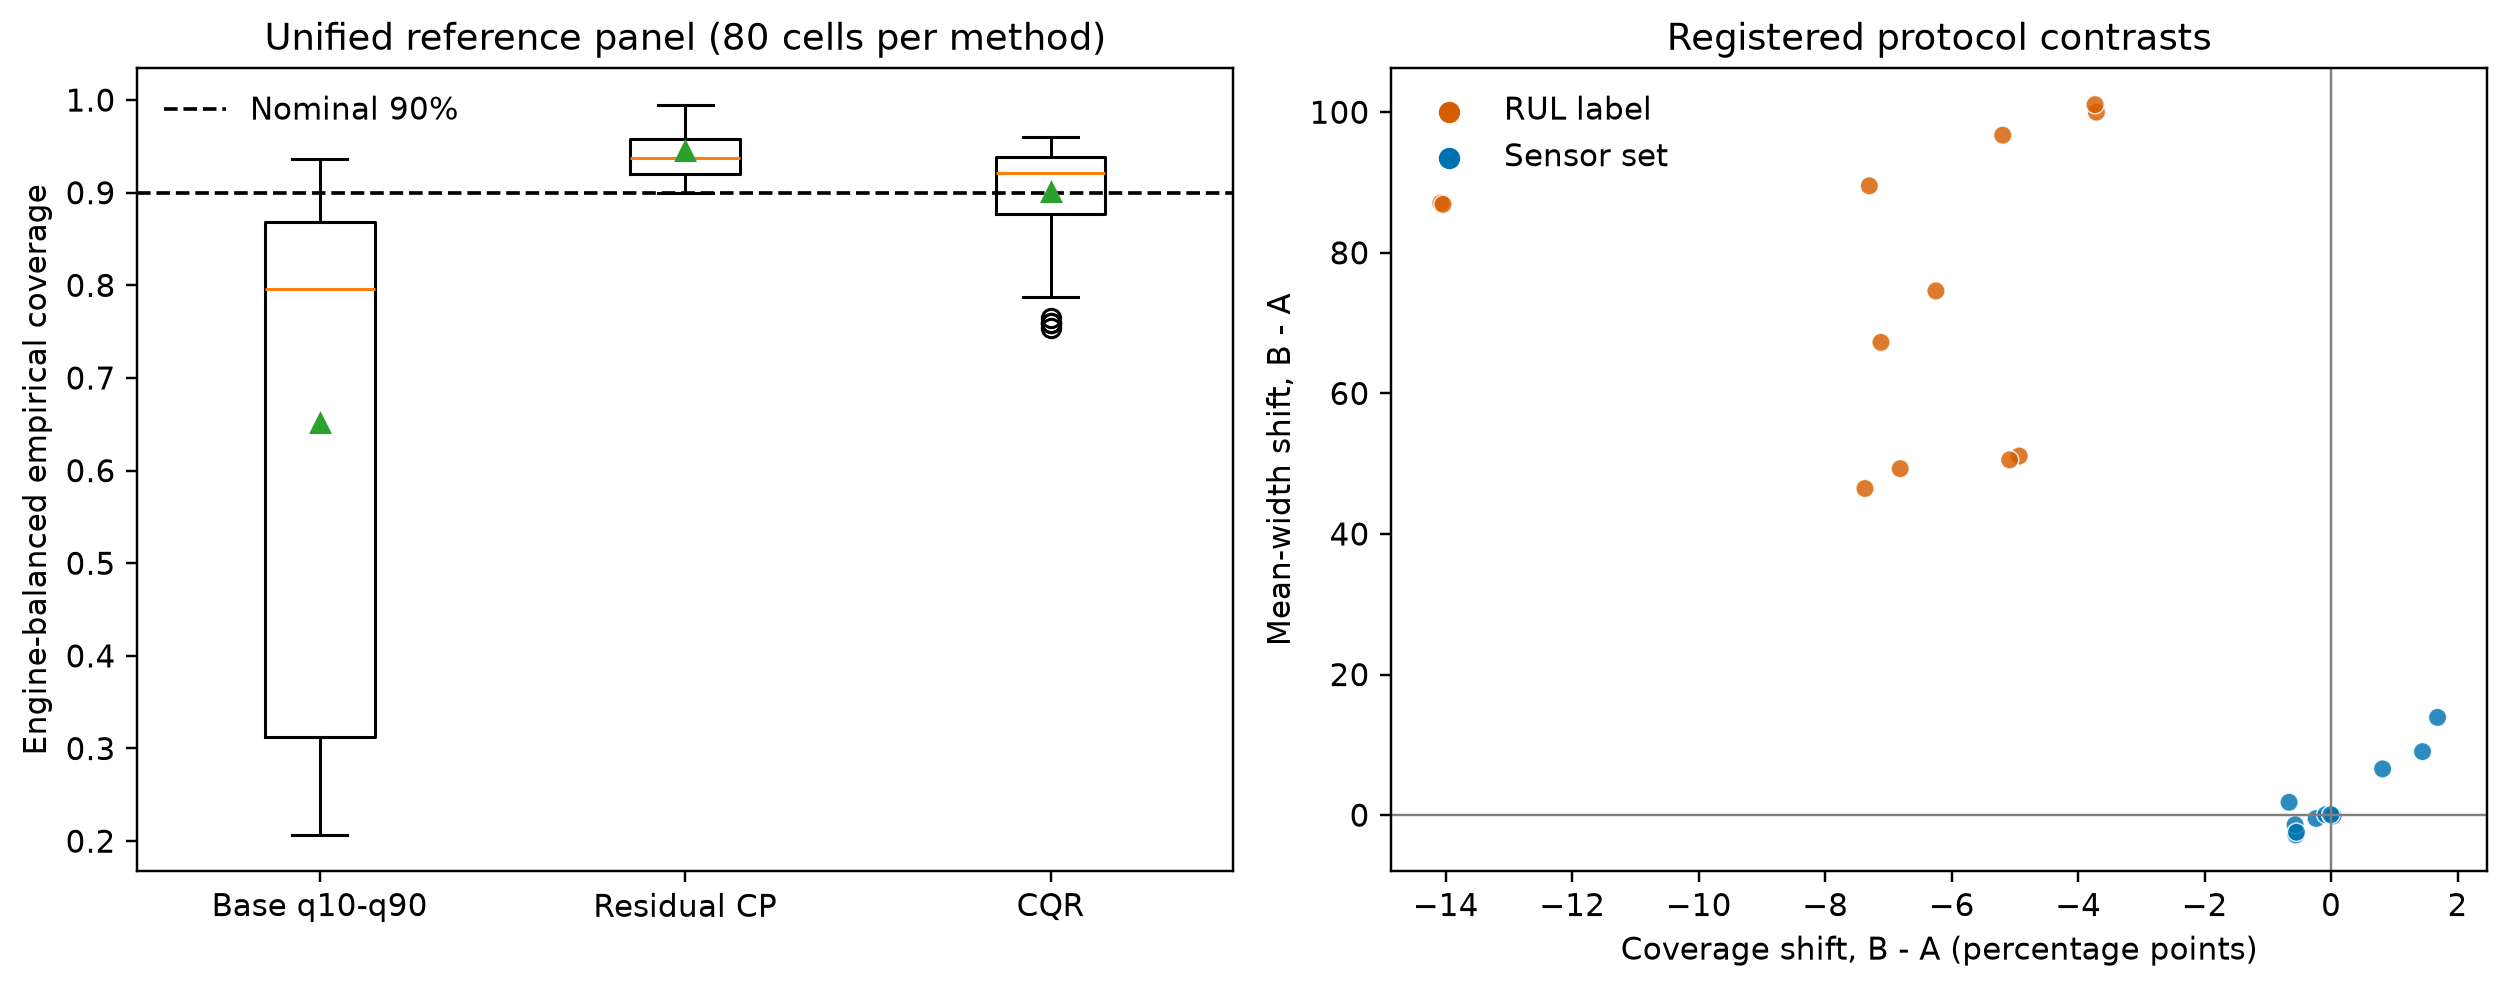
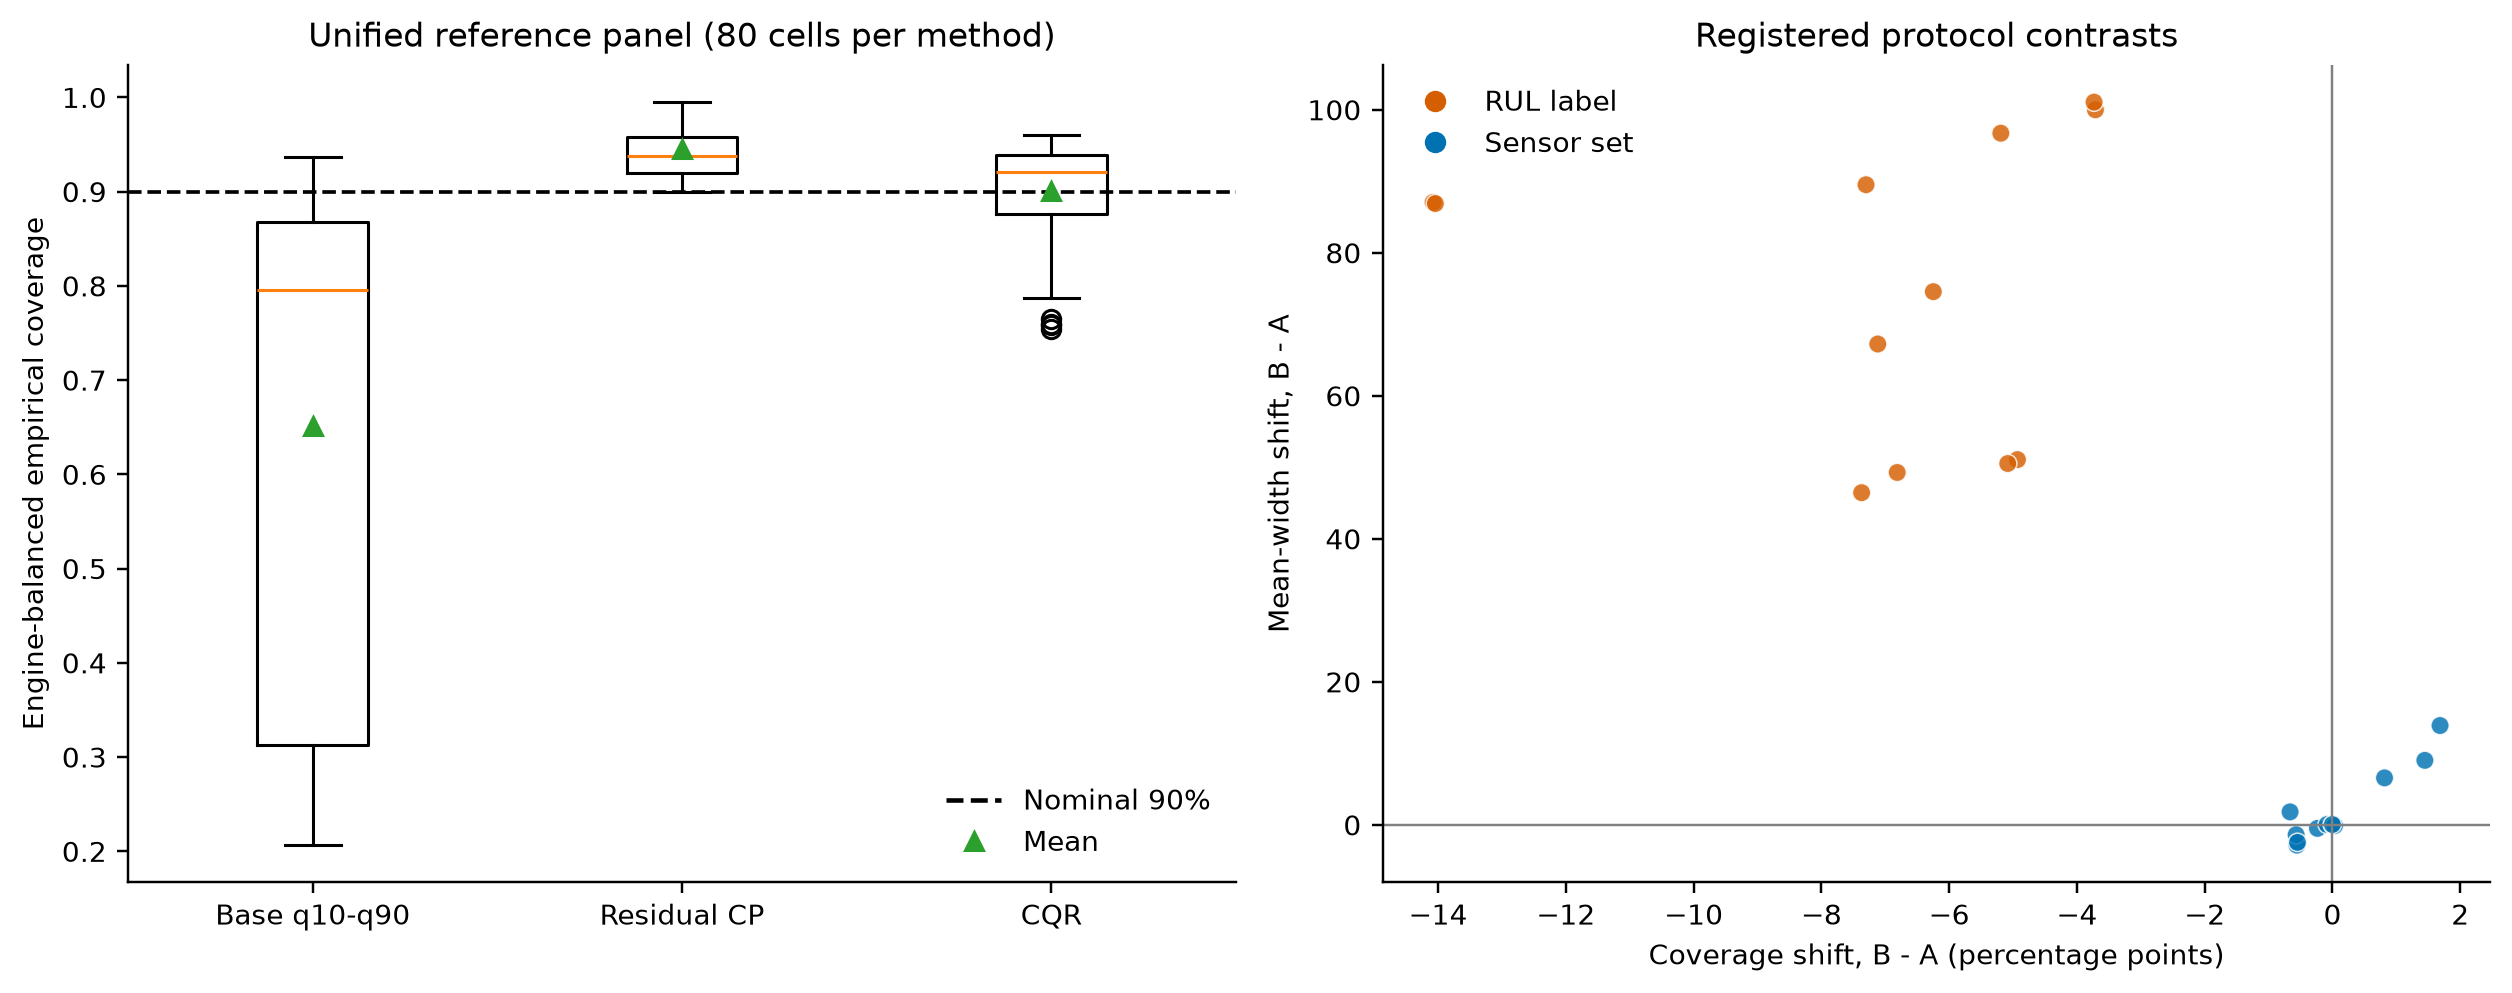
Synchronize publication figures for v0.1.2

diff --git a/README.md b/README.md
@@ -109,11 +109,11 @@ wise, or deployment coverage certificate.
 
 ## Citation and archival identifiers
 
-- Software v0.1.1: <https://doi.org/10.5281/zenodo.21905029>
+- Software v0.1.2: <https://doi.org/10.5281/zenodo.21915989>
 - Software concept DOI: <https://doi.org/10.5281/zenodo.21905028>
-- Generated result dataset v1.0.1: <https://doi.org/10.5281/zenodo.21905033>
+- Generated result dataset v1.0.2: <https://doi.org/10.5281/zenodo.21915990>
 - Dataset concept DOI: <https://doi.org/10.5281/zenodo.21905032>
-- GitHub release source: <https://github.com/Thanatosc/rul-eval-audit/tree/v0.1.1>
+- GitHub release source: <https://github.com/Thanatosc/rul-eval-audit/tree/v0.1.2>
 
 Use the version-specific software DOI when citing this exact code release and
 the version-specific dataset DOI when using the generated prediction or

diff --git a/REPRODUCIBILITY.md b/REPRODUCIBILITY.md
@@ -20,7 +20,7 @@ LSTM-versus-CNN checks is exploratory and does not update `kill_v1`.
 ## Restore the companion result dataset
 
 Every dataset ZIP has the same top-level directory,
-`rul-eval-audit-results-v1.0.1/`. Extract all parts into one temporary directory,
+`rul-eval-audit-results-v1.0.2/`. Extract all parts into one temporary directory,
 then copy that directory's contents into the repository root. Parts contain
 disjoint files and may be extracted in any order.
 
